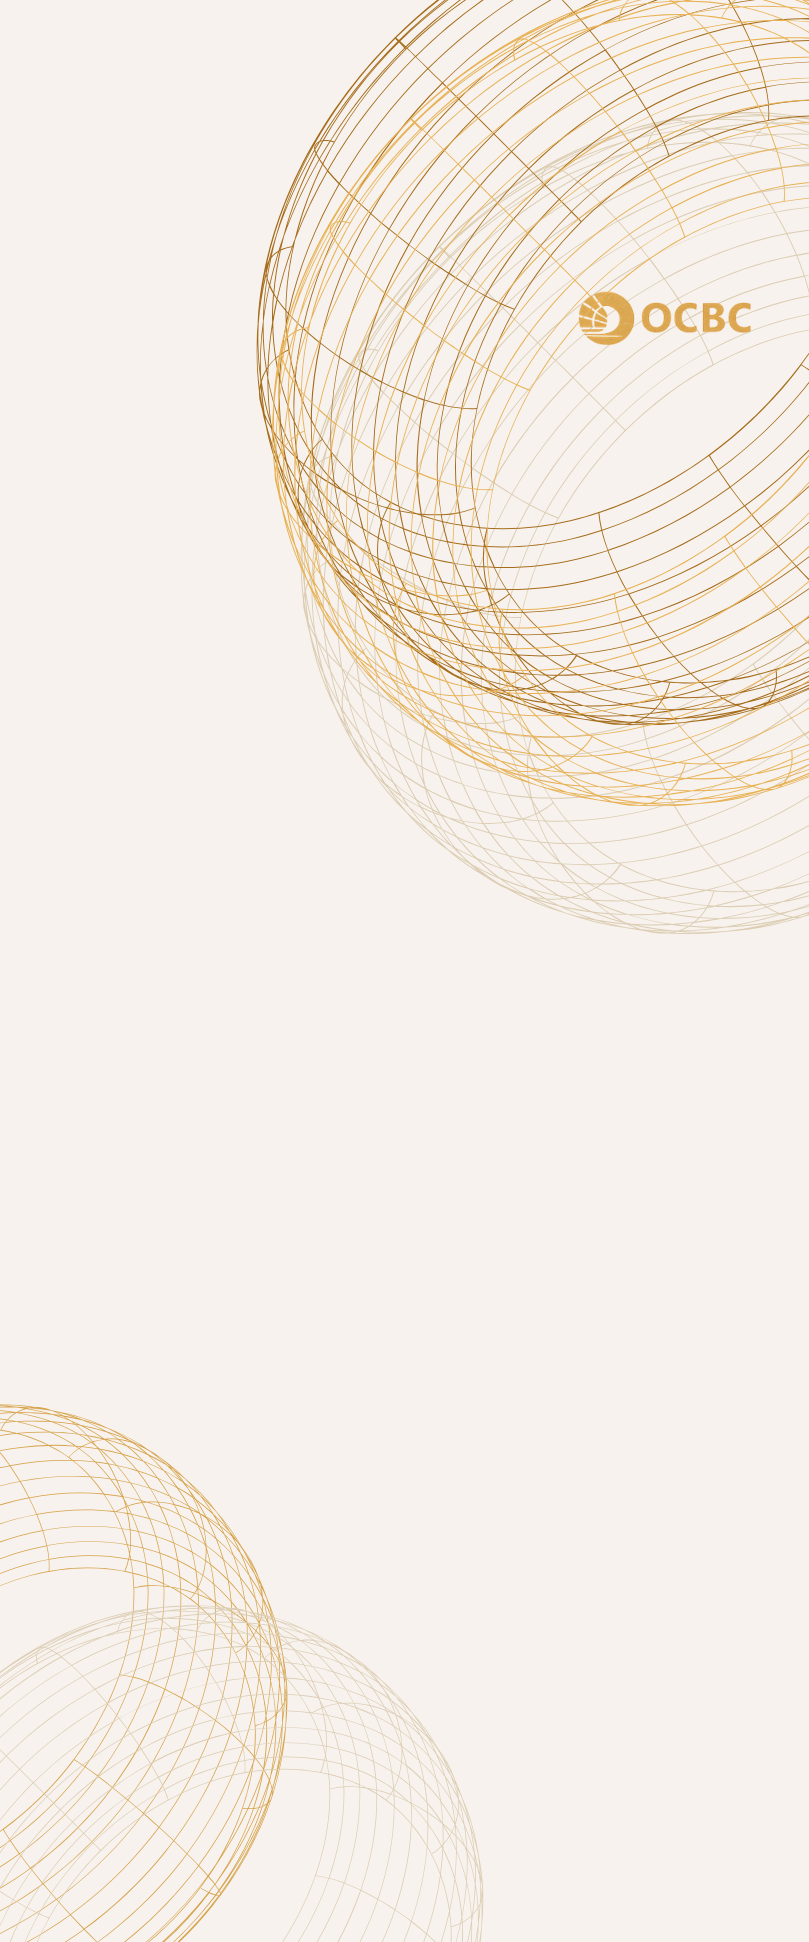
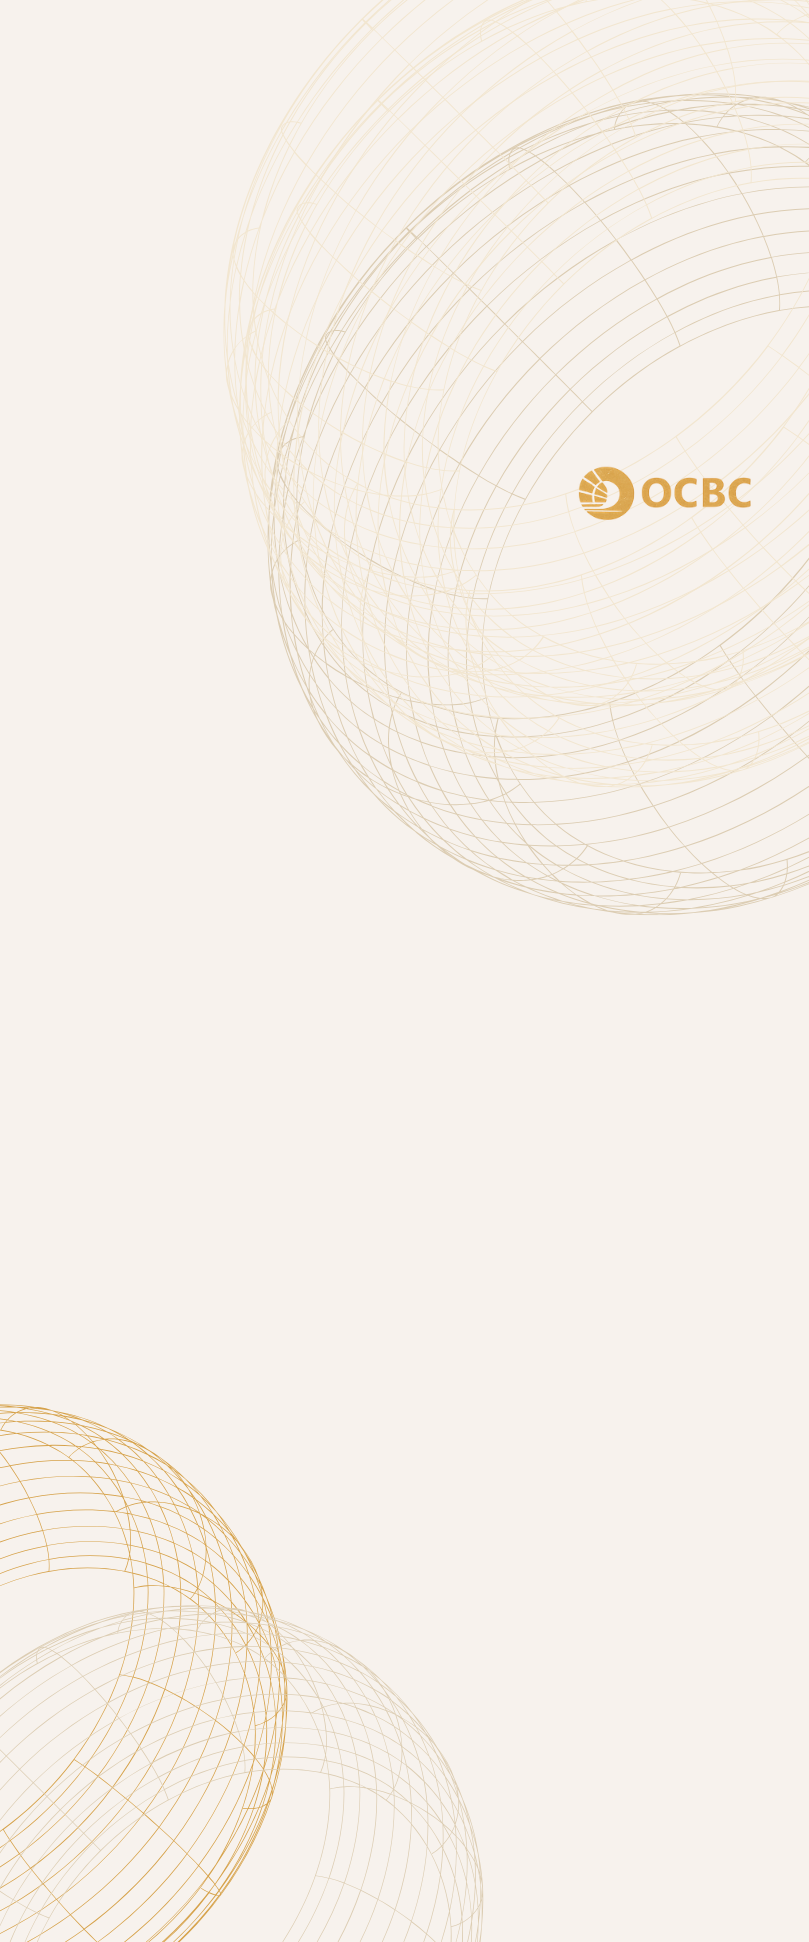
update ptt

Changed region(s): [[0.2781, 0.0, 1.0, 0.4943]]

diff --git a/index.html b/index.html
@@ -260,7 +260,7 @@
   }
 
   /* 3D net-mesh background — Building Your Plan screen (canvas-driven, see #netmesh JS) */
-  .netmesh-wrap{position:absolute;top:0;left:0;right:0;height:500px;overflow:hidden;z-index:0;pointer-events:none;background:linear-gradient(180deg,#fdf6ea 0%,#f9f0dd 40%,#f6ecd8 65%,var(--bg) 100%)}
+  .netmesh-wrap{position:absolute;top:0;left:0;right:0;height:420px;overflow:hidden;z-index:0;pointer-events:none;background:linear-gradient(180deg,#fdf6ea 0%,#f9f0dd 40%,#f6ecd8 65%,var(--bg) 100%)}
   #netmesh{display:block;width:100%;height:100%}
 
   .ai-name {
@@ -1885,9 +1885,13 @@ analyze(){runAnalyze();const sel=AGENTS.filter(a=>state.agents.includes(a.id));s
 reco(){const sel=AGENTS.filter(a=>state.agents.includes(a.id));
   const signals=sel.map(a=>({ag:a,...noticedDynamic(a)}));
   const prof=state.riskAssessed||riskProfile();
-  return appbar('Your Plan','analyze')+`<div class="pad">
-  <div class="eyebrow ai">Your AI team's recommendation</div>
-  <h1>A Plan Built Around Your Goals</h1>
+  return `<div style="position:relative">
+  <div style="position:relative;z-index:1">${appbar('Your Plan','analyze',false,true)}<div class="pad">
+  <div class="eyebrow" style="background:linear-gradient(120deg,#e3b04a,#a6710f);-webkit-background-clip:text;background-clip:text;color:transparent">Your AI team's recommendation</div>
+  <h1>
+    A Plan Built<br>
+    Around Your Goals
+  </h1>
   <p class="sub">Here's what each agent flagged in your situation — and the mix it points to, kept within your ${prof} risk profile.</p>
 
   <h2>What Your AI Team Noticed</h2>
@@ -1900,7 +1904,7 @@ reco(){const sel=AGENTS.filter(a=>state.agents.includes(a.id));
     <div><div style="font-family:'Sora';font-weight:800;font-size:14px;color:#fff">Orchestrator</div>
       <div style="font-size:12px;color:#e8d8ad;line-height:1.45">Weighed against your <b style="color:#fff">${prof}</b> profile, here's your recommended mix across four asset classes. Open your plan next to see — and adjust — the funds I've picked in each.</div></div></div>
 
-  <div class="card" style="text-align:center;margin-top:11px">
+  <div class="card" style="text-align:center;margin-top:11px;background:linear-gradient(180deg,#fffbf3,#fff);border:1px solid #e8d6a8">
     <div style="display:flex;justify-content:center">${pieSVG(150)}</div>
     <div class="legend4">${KEYS4.map(x=>`<div class="lg"><span class="swatch" style="background:${BK[x].hex}"></span>${BK[x].name} <b>${state.buckets[x]}%</b></div>`).join('')}</div>
     <div class="recorisk">
@@ -1909,9 +1913,9 @@ reco(){const sel=AGENTS.filter(a=>state.agents.includes(a.id));
     </div>
   </div>
 
-  <button class="btn primary" onclick="go('portfolio')">Adjust &amp; Explore My Plan →</button>
+  <button class="btn gold" onclick="go('portfolio')">Adjust &amp; Explore My Plan →</button>
   <div class="disc">Illustrative only. Projections are not guaranteed and your capital is at risk.</div>
-</div>`;},
+</div></div></div>`;},
 
 sandbox(){return appbar('Adjust Your Plan','reco')+`<div class="pad">
   <div class="row" style="justify-content:space-between;margin-bottom:8px"><div class="eyebrow ai">Your sandbox · adjust freely, risk-free</div><span class="goalbadge" id="goalChip" style="background:${goalStatus().ok?'#e7f8ef':'#fdeee8'};color:${goalStatus().ok?'#0c7a4a':'#b1560f'}">${goalStatus().label}</span></div>
@@ -3046,7 +3050,8 @@ function render(){
   const BG_SCREENS={
     team:{img:'images/ocbc-ea-myaiteam.png',top:-40,width:100},
     goals:{img:'images/ocbc-ea-yourgoals.png',top:-40,width:100},
-    risk:{img:'images/ocbc-ea-risk.png',top:-40,width:100}
+    risk:{img:'images/ocbc-ea-risk.png',top:-40,width:100},
+    reco:{img:'images/ocbc-ea-yourplan.png',top:-40,width:100}
   };
   $('statusbar').className='statusbar'+(cur==='home'||cur==='analyze'||BG_SCREENS[cur]?' onhero':cur==='login'?' over':'');
   if($('screenbg')){
